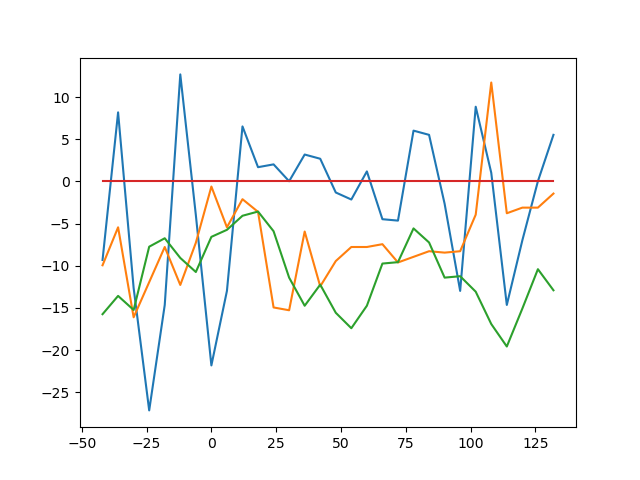
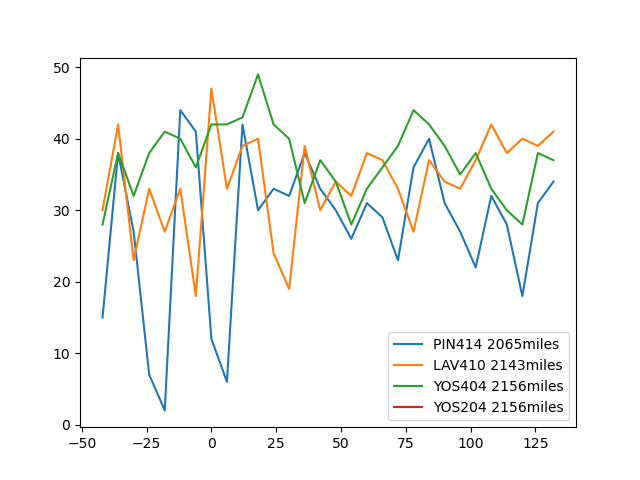
new Assumption2

diff --git a/final.py b/final.py
@@ -6,6 +6,7 @@ import datetime
 import time
 import math
 import matplotlib.pyplot as plt
+import pylab as plt
 
 def precipitation_ozone(filename):
 	"""
@@ -98,6 +99,10 @@ def distance (x1,y1,x2,y2):
     :param x2: second position x
     :param y2: second position y
     :return: miles in float
+    >>> distance(5.68, 7.95, 8.72, 20.81)
+    788.006105005502
+    >>> distance(10.25, 14.11, 18.82, 51.49)
+    2229.96418603418
     """
     geod = Geodesic.WGS84
     dist = geod.Inverse(float(x1),float(y1),float(x2),float(y2))
@@ -108,15 +113,24 @@ def time_hours(t1,t2):
     :param t1: time 1
     :param t2: time 2
     :return: time lag in hours
-    >>> time_hours('2010-05-29 00:00', '2010-05-20 05:00')
-    True
+    >>> time_hours('2010-05-29 00:00', '2010-05-28 23:00')
+    -1.0
     """
     dt1 = datetime.datetime.strptime(str(t1),"%Y-%m-%d %H:%M")
     dt2 = datetime.datetime.strptime(str(t2),"%Y-%m-%d %H:%M")
     diff = (dt2-dt1).seconds/3600 + (dt2-dt1).days*24
     return diff
 def nearestSITE(vx,vy,number):
-	resultSITE = []
+	"""
+	use distance functions to calculate the nearest SITE to the x,y
+	:param vx: x of position that volcano erupted
+	:param vy: y of position that volcano erupted
+	:param number: number of nearest site
+	:return: list of nearest SITE_ID
+	>>> nearestSITE(16.708,145.780,5)
+	{'HVT424': 3359.1784764667727, 'KVA428': 3715.4947252139095, 'DEN417': 3855.8991796178866, 'POF425': 3915.502661797372, 'OLY421': 4699.023392867393}
+	"""
+	resultSITE = {}
 	loc = {}
 	file = pd.read_csv('Site.csv')
 	for ind in file.index:
@@ -130,54 +144,59 @@ def nearestSITE(vx,vy,number):
 			if min > loc[item]:
 				min = loc[item]
 				ID = item
-		resultSITE.append(ID)
+		resultSITE[ID] = min
 		del loc[ID]
 	return resultSITE
 def timeana(set,eruptime,start,end):
+	"""
+	according to the eruption time, return the ozone during the start and end time
+	:param set: the dictionary of nearest site
+	:param eruptime: the time of the volcano eruption
+	:param start: plot start time
+	:param end: plot end time
+	:return: ozone pollution amount
+	>>> data = pd.read_csv('ozone/metdata_2010.csv')
+	>>> influ = data[data['SITE_ID'] == 'DEN417']
+	>>> timeana(influ,'2010-05-29',-20,30)
+	38.0
+	"""
 	eruptime = str(eruptime)+' 00:00'
-	result = {}
-	suma = 0
-	counta = 0
-	sumr = 0
-	countr = 0
 	for ind in set.index:
-		id = set['SITE_ID'][ind]
 		nt = str(set['DATE_TIME'][ind])[0:16]
-		sumr += set['OZONE'][ind]
-		countr +=1
 		if (time_hours(eruptime,nt) < end) and (time_hours(eruptime,nt) >= start ) :
-			suma += set['OZONE'][ind]
-			counta += 1
-	if suma != 0 :
-		ozone = suma/counta
-		regular = sumr/countr
-		result[id] = {'afterEruption': ozone ,'regular' : regular}
-		diff = result[id]['afterEruption'] - result[id]['regular']
-		return diff
-	else:
-		return 0
+			return set['OZONE'][ind]
 
 def ozone_vol(data,site,erupdate):
-	for si in site:
+	# plot multiple lines with label, learnt from:https://stackoverflow.com/questions/11481644/how-do-i-assign-multiple-labels-at-once-in-matplotlib
+	x = []
+	y = []
+	lab = []
+	for si in site.keys():
+		tx = []
+		ty = []
+		info = str(si) + ' ' + str(round(site[si])) + 'miles'
+		lab.append(info)
 		start = -48
 		end = -42
-		x = []
-		y = []
-		for i in range(0,30):
-			influ = data[data['SITE_ID']== si]
-			if not influ.empty:
+		influ = data[data['SITE_ID'] == si]
+		if not influ.empty:
+			for i in range(0,30):
 				start += 6
 				end += 6
-				x.append(start)
+				tx.append(start)
 				result = timeana(influ,erupdate,start,end)
-				y.append(result)
-		if x != [] and y != []:
-			plt.plot(x,y)
-		name = str(erupdate)
-		plt.savefig('result_graph/volcano/'+ name+'.png')
+				ty.append(result)
+		x.append(tx)
+		y.append(ty)
+
+	for i in range(len(x)):
+		if x[i] != [] and y[i] != []:
+			plt.plot(x[i],y[i],label = lab[i]  )
+
+	name = str(erupdate)
+	plt.legend()
+	plt.savefig('result_graph/volcano/'+ name+'.png')
 	plt.clf()
-
-
 
 
 ###### main function:
@@ -194,7 +213,7 @@ if __name__ == "__main__":
 		num = num.replace('%', '')
 		num = float(num)
 		water['COVERAGE'][ind] = num
-	"""result = precipitation_ozone('ozone/metdata_2019.csv')
+	result = precipitation_ozone('ozone/metdata_2019.csv')
 	yearRainAnanlyze(result)
 	# 10 years result
 	for i in range(10,20):
@@ -244,7 +263,7 @@ if __name__ == "__main__":
 		x.append(result['COVERAGE'][ind])
 		y.append(state_ozone[result['STATE'][ind]])
 	plt.plot(x,y)
-	plt.savefig('watercover_growRate.png')"""
+	plt.savefig('watercover_growRate.png')
 ### Assumption 2 : volcanos influence
 # read in volcanos data
 	volcano = pd.read_csv('volcanos.csv')

diff --git a/README.md b/README.md
@@ -70,7 +70,22 @@
     
 # Assumption 2:
 Assumption2:     
-Will the volcanoes eruption influence the ozone polution?
+- Data used:
+    - metdata file for ozone pollution recent 10 years
+    - data file for the recent volcanoes eruption information
+    - metdata file for other pollution gas in recent 10 years
+    
+- Will the volcanoes eruption influence the ozone pollution?    
+    (As most of the environment department discover, one of the factor influence the ozone layer is the volcanoes' eruption. So we want to analyze that when the volcano erupted, how does the ozone pollution change. )     
+     - Difficulties:     
+      Since the ozone data is not really high quality which means we missed some data, especially the Hawaii. The Hawaii's volcano was erupted 3 times in 2018, by there are no ozone data collected in Hawaii during that year. 
+     So instead of trying to analyze its own State data, we collected nearest 5 sites to where the volcanoes are. 
+     Then select all usable data to do the further analyze.     
+     - Analyze:     
+     After sort the 5 nearest sites, we plot the time
+        
+      
+
 How about other pollution gas changing? 
 # Assumption 3:
 How recently 5 years(from 2015-2019) ozone mean compare in each of the state in the perspective of each months(From Jan to December)?
